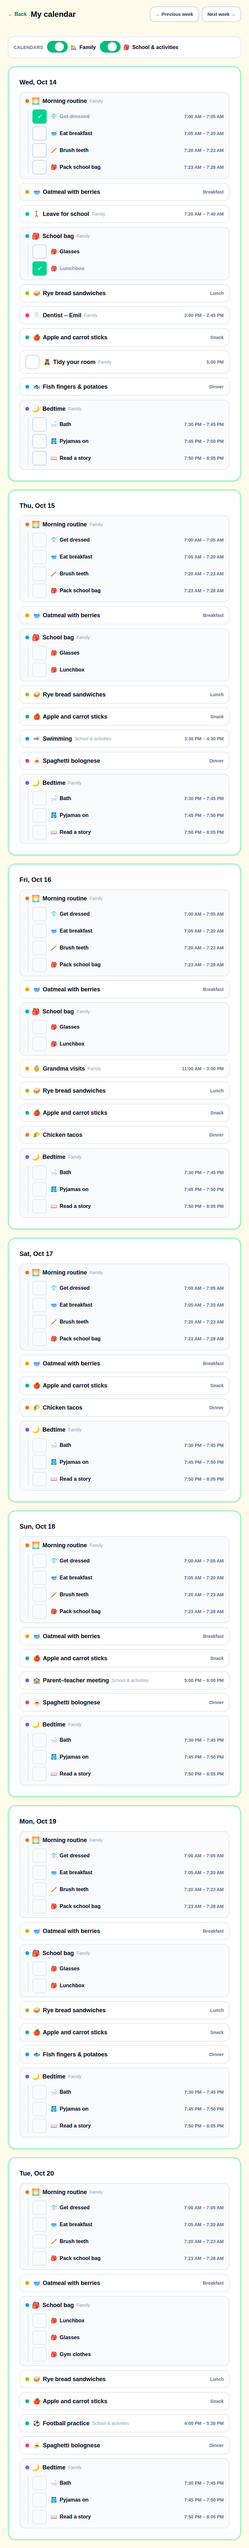
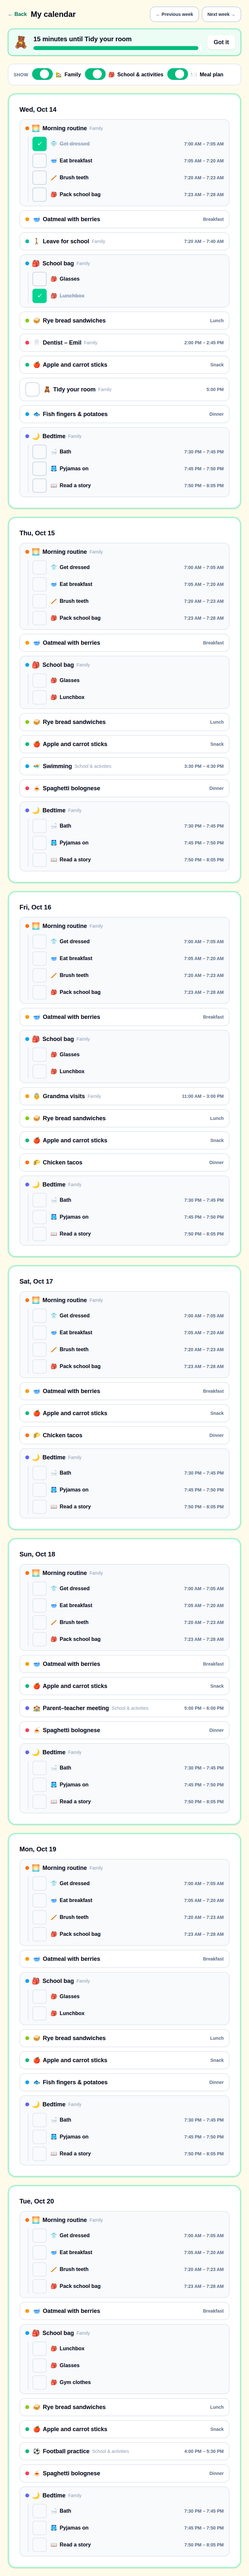
feat(child-calendar): add a switch to show or hide the meal plan
The filter bar on /child/calendar gets a "Meal plan" switch, on by default,
whenever meal plans are enabled. The choice is remembered per device in
localStorage. The bar's title becomes "Show" since it now also appears with
a single calendar.

diff --git a/src/frontend/buddy/src/app/features/child/calendar/child-calendar.spec.ts b/src/frontend/buddy/src/app/features/child/calendar/child-calendar.spec.ts
@@ -1,7 +1,7 @@
 import { signal } from '@angular/core';
 import { TestBed } from '@angular/core/testing';
 import { provideRouter } from '@angular/router';
-import { describe, expect, it, vi } from 'vitest';
+import { afterEach, beforeEach, describe, expect, it, vi } from 'vitest';
 
 import {
   CalendarOccurrence,
@@ -17,6 +17,10 @@ import { disableFeatures } from '../../../../testing/features-fixture';
 
 describe('ChildCalendar', () => {
   const today = todayIsoDate();
+
+  // The meal-plan switch is remembered in localStorage; start every test from the default.
+  beforeEach(() => localStorage.clear());
+  afterEach(() => localStorage.clear());
 
   const currentUser: CurrentUser = {
     showVisualTimers: true,
@@ -476,12 +480,117 @@ describe('ChildCalendar', () => {
     expect(compiled.textContent).toContain('All day');
   });
 
-  it('shows no filter toggles when only one calendar is accessible', async () => {
+  it('shows only the meal-plan switch when one calendar is accessible', async () => {
     const { fixture } = await setup();
     await settle(fixture);
-    expect(
-      (fixture.nativeElement as HTMLElement).querySelector('button[role="switch"]'),
-    ).toBeFalsy();
+
+    const labels = Array.from(
+      (fixture.nativeElement as HTMLElement).querySelectorAll('button[role="switch"]'),
+    ).map((b) => b.getAttribute('aria-label'));
+    expect(labels).toEqual(['Meal plan']);
+  });
+
+  it('shows no filter when one calendar is accessible and meal plans are turned off', async () => {
+    disableFeatures('mealplans');
+    const { fixture } = await setup();
+    await settle(fixture);
+
+    const compiled = fixture.nativeElement as HTMLElement;
+    expect(compiled.querySelector('button[role="switch"]')).toBeFalsy();
+    expect(compiled.textContent).not.toContain('Show');
+  });
+
+  it('lists the meal-plan switch after the calendar switches, under the "Show" title', async () => {
+    const { fixture } = await setup({
+      calendars: {
+        listMyCalendars: vi.fn(async () => [
+          calendarSummary(),
+          calendarSummary({ id: 'cal-2', name: 'School' }),
+        ]),
+      },
+    });
+    await settle(fixture);
+
+    const compiled = fixture.nativeElement as HTMLElement;
+    const labels = Array.from(compiled.querySelectorAll('button[role="switch"]')).map((b) =>
+      b.getAttribute('aria-label'),
+    );
+    expect(labels).toEqual(['Home', 'School', 'Meal plan']);
+    expect(compiled.textContent).toContain('Show');
+  });
+
+  it('shows meals by default, with the meal-plan switch on', async () => {
+    const { fixture } = await setup({
+      mealplans: { listMealPlan: vi.fn(async () => [mealEntry()]) },
+    });
+    await settle(fixture);
+
+    const compiled = fixture.nativeElement as HTMLElement;
+    expect(findButtonByAriaLabel(compiled, 'Meal plan')?.getAttribute('aria-checked')).toBe('true');
+    expect(compiled.textContent).toContain('Pancakes');
+  });
+
+  it('hides meals but keeps events when the meal-plan switch is turned off, and remembers it', async () => {
+    const { fixture } = await setup({
+      calendars: { listOccurrencesInRange: vi.fn(async () => [occurrence()]) },
+      mealplans: { listMealPlan: vi.fn(async () => [mealEntry()]) },
+    });
+    await settle(fixture);
+
+    const compiled = fixture.nativeElement as HTMLElement;
+    findButtonByAriaLabel(compiled, 'Meal plan')?.click();
+    await settle(fixture);
+
+    expect(compiled.textContent).not.toContain('Pancakes');
+    expect(compiled.textContent).toContain('Dentist');
+    expect(findButtonByAriaLabel(compiled, 'Meal plan')?.getAttribute('aria-checked')).toBe(
+      'false',
+    );
+    expect(localStorage.getItem('buddy_child_calendar_show_meals')).toBe('false');
+  });
+
+  it('shows the empty state when the only entries are hidden meals', async () => {
+    const { fixture } = await setup({
+      mealplans: { listMealPlan: vi.fn(async () => [mealEntry()]) },
+    });
+    await settle(fixture);
+
+    const compiled = fixture.nativeElement as HTMLElement;
+    findButtonByAriaLabel(compiled, 'Meal plan')?.click();
+    await settle(fixture);
+
+    expect(compiled.textContent).toContain('Nothing planned this week');
+  });
+
+  it('shows hidden meals again without reloading when the switch is turned back on', async () => {
+    const { fixture, mealplans } = await setup({
+      mealplans: { listMealPlan: vi.fn(async () => [mealEntry()]) },
+    });
+    await settle(fixture);
+
+    const compiled = fixture.nativeElement as HTMLElement;
+    findButtonByAriaLabel(compiled, 'Meal plan')?.click();
+    await settle(fixture);
+    findButtonByAriaLabel(compiled, 'Meal plan')?.click();
+    await settle(fixture);
+
+    expect(compiled.textContent).toContain('Pancakes');
+    expect(mealplans.listMealPlan).toHaveBeenCalledTimes(1);
+    expect(localStorage.getItem('buddy_child_calendar_show_meals')).toBe('true');
+  });
+
+  it('starts with meals hidden when they were hidden last time on this device', async () => {
+    localStorage.setItem('buddy_child_calendar_show_meals', 'false');
+    const { fixture } = await setup({
+      mealplans: { listMealPlan: vi.fn(async () => [mealEntry()]) },
+    });
+    await settle(fixture);
+
+    const compiled = fixture.nativeElement as HTMLElement;
+    expect(findButtonByAriaLabel(compiled, 'Meal plan')?.getAttribute('aria-checked')).toBe(
+      'false',
+    );
+    expect(compiled.textContent).not.toContain('Pancakes');
   });
 
   it('shows a per-calendar filter when more than one calendar is accessible', async () => {

diff --git a/src/frontend/buddy/src/app/features/child/calendar/child-calendar.html b/src/frontend/buddy/src/app/features/child/calendar/child-calendar.html
@@ -37,23 +37,37 @@
     }
   }
 
-  @if (myCalendars().length > 1) {
+  @if (myCalendars().length > 1 || mealplansEnabled()) {
     <div
       class="flex flex-wrap items-center gap-3 rounded-2xl border-2 border-slate-200 dark:border-slate-800 bg-white dark:bg-slate-900 px-4 py-3"
     >
       <span class="text-sm font-bold uppercase tracking-wide text-slate-500 dark:text-slate-400">{{
         'child.calendar.filterTitle' | translate
       }}</span>
-      @for (calendar of myCalendars(); track calendar.id) {
+      @if (myCalendars().length > 1) {
+        @for (calendar of myCalendars(); track calendar.id) {
+          <div class="flex items-center gap-2 text-base font-semibold">
+            <app-toggle
+              size="lg"
+              [checked]="!isCalendarHidden(calendar.id)"
+              [ariaLabel]="calendar.name"
+              (checkedChange)="toggleCalendarVisibility(calendar.id)"
+            />
+            <span aria-hidden="true">{{ calendar.icon }}</span>
+            {{ calendar.name }}
+          </div>
+        }
+      }
+      @if (mealplansEnabled()) {
         <div class="flex items-center gap-2 text-base font-semibold">
           <app-toggle
             size="lg"
-            [checked]="!isCalendarHidden(calendar.id)"
-            [ariaLabel]="calendar.name"
-            (checkedChange)="toggleCalendarVisibility(calendar.id)"
+            [checked]="showMeals()"
+            [ariaLabel]="'child.calendar.showMeals' | translate"
+            (checkedChange)="setShowMeals($event)"
           />
-          <span aria-hidden="true">{{ calendar.icon }}</span>
-          {{ calendar.name }}
+          <span aria-hidden="true">🍽</span>
+          {{ 'child.calendar.showMeals' | translate }}
         </div>
       }
     </div>

diff --git a/src/frontend/buddy/src/app/features/child/calendar/child-calendar.ts b/src/frontend/buddy/src/app/features/child/calendar/child-calendar.ts
@@ -31,6 +31,7 @@ import { UsersService } from '../../../core/users.service';
 import { createAction } from '../../../shared/action-state/action-state';
 import { Toggle } from '../../../shared/toggle/toggle';
 import { ChildPage } from '../child-page/child-page';
+import { readShowMeals, writeShowMeals } from './meal-visibility-storage';
 
 const TASK_KIND: CalendarItemKind = 'Task';
 const DAYS_AHEAD = 7;
@@ -154,13 +155,15 @@ export class ChildCalendar {
     computation: (next, previous) => next ?? previous?.value ?? [],
   });
   protected readonly hiddenCalendarIds = signal<Set<string>>(new Set());
+  protected readonly showMeals = signal(readShowMeals());
   protected readonly savingTask = createAction<string>();
 
   private readonly occurrences = computed(() =>
     this.week.hasValue() ? this.week.value().occurrences : [],
   );
+  // Hidden meals are still loaded, so switching them back on shows them without a reload.
   private readonly mealEntries = computed(() =>
-    this.week.hasValue() ? this.week.value().mealEntries : [],
+    this.showMeals() && this.week.hasValue() ? this.week.value().mealEntries : [],
   );
 
   protected readonly occurrencesByDate = computed(() => {
@@ -302,6 +305,15 @@ export class ChildCalendar {
 
       return next;
     });
+  }
+
+  protected mealplansEnabled(): boolean {
+    return this.features.enabled('mealplans');
+  }
+
+  protected setShowMeals(show: boolean): void {
+    this.showMeals.set(show);
+    writeShowMeals(show);
   }
 
   protected async toggleTask(occurrence: CalendarOccurrence): Promise<void> {

diff --git a/src/frontend/buddy/src/app/features/child/calendar/meal-visibility-storage.spec.ts b/src/frontend/buddy/src/app/features/child/calendar/meal-visibility-storage.spec.ts
@@ -1,0 +1,40 @@
+import { afterEach, beforeEach, describe, expect, it, vi } from 'vitest';
+
+import { readShowMeals, writeShowMeals } from './meal-visibility-storage';
+
+describe('meal-visibility-storage', () => {
+  beforeEach(() => localStorage.clear());
+  afterEach(() => {
+    localStorage.clear();
+    vi.restoreAllMocks();
+  });
+
+  it('shows meals when nothing is stored', () => {
+    expect(readShowMeals()).toBe(true);
+  });
+
+  it('round-trips a hidden and a shown meal plan', () => {
+    writeShowMeals(false);
+    expect(localStorage.getItem('buddy_child_calendar_show_meals')).toBe('false');
+    expect(readShowMeals()).toBe(false);
+
+    writeShowMeals(true);
+    expect(readShowMeals()).toBe(true);
+  });
+
+  it('shows meals when storage cannot be read', () => {
+    vi.spyOn(Storage.prototype, 'getItem').mockImplementation(() => {
+      throw new Error('blocked');
+    });
+
+    expect(readShowMeals()).toBe(true);
+  });
+
+  it('ignores a storage failure when writing', () => {
+    vi.spyOn(Storage.prototype, 'setItem').mockImplementation(() => {
+      throw new Error('blocked');
+    });
+
+    expect(() => writeShowMeals(false)).not.toThrow();
+  });
+});

diff --git a/src/frontend/buddy/src/app/features/child/calendar/meal-visibility-storage.ts b/src/frontend/buddy/src/app/features/child/calendar/meal-visibility-storage.ts
@@ -1,0 +1,21 @@
+// Whether the child's calendar shows the meal plan on this device -- a view preference, not
+// configuration, so it isn't synced (same lightweight approach as theme-storage.ts). Storage can
+// be unavailable (private mode, blocked site data), so every access is guarded and failure just
+// means the default: meals shown.
+const KEY = 'buddy_child_calendar_show_meals';
+
+export function readShowMeals(): boolean {
+  try {
+    return localStorage.getItem(KEY) !== 'false';
+  } catch {
+    return true;
+  }
+}
+
+export function writeShowMeals(show: boolean): void {
+  try {
+    localStorage.setItem(KEY, String(show));
+  } catch {
+    // Not persisted; the calendar just starts with meals shown next time.
+  }
+}

diff --git a/src/frontend/buddy/src/app/core/i18n/translations/da/child.ts b/src/frontend/buddy/src/app/core/i18n/translations/da/child.ts
@@ -138,7 +138,8 @@ export const child = {
     loadError: 'Der gik noget galt med at indlæse din kalender. Prøv igen om lidt.',
     taskUpdateError: 'Der gik noget galt med at opdatere opgaven. Prøv igen om lidt.',
     emptyTitle: 'Intet planlagt denne uge',
-    filterTitle: 'Kalendere',
+    filterTitle: 'Vis',
+    showMeals: 'Madplan',
     allDay: 'Hele dagen',
     tasks: {
       markDone: 'Marker som klar',

diff --git a/src/frontend/buddy/src/app/core/i18n/translations/en/child.ts b/src/frontend/buddy/src/app/core/i18n/translations/en/child.ts
@@ -138,7 +138,8 @@ export const child = {
     loadError: 'Something went wrong loading your calendar. Try again in a bit.',
     taskUpdateError: 'Something went wrong updating that task. Try again in a bit.',
     emptyTitle: 'Nothing planned this week',
-    filterTitle: 'Calendars',
+    filterTitle: 'Show',
+    showMeals: 'Meal plan',
     allDay: 'All day',
     tasks: {
       markDone: 'Mark done',

diff --git a/docs/frontend/analysis/child-calendar-mealplan-integration.md b/docs/frontend/analysis/child-calendar-mealplan-integration.md
@@ -141,6 +141,17 @@ cases for:
 - Meal rows show the meal's icon/name/slot label and are not clickable (no
   completion affordance).
 
+## Follow-up: show/hide toggle (2026-10-14)
+
+The calendar's filter bar (titled "Show" / "Vis") has a "Meal plan" switch,
+on by default, whenever the `mealplans` feature is enabled. The bar now
+appears even with a single calendar. Turning the switch off drops meals from
+the agenda and from the empty-state check. The meals are still loaded, so
+switching back needs no reload. The choice is a per-device view preference
+in `localStorage` (`buddy_child_calendar_show_meals`, see
+`meal-visibility-storage.ts`), not synced to the profile, like the theme and
+the last print template.
+
 ## Explicitly out of scope for this phase
 
 - Rating a meal from the calendar view — stays on `/child/mealplan`.

diff --git a/TODO.md b/TODO.md
@@ -15,7 +15,9 @@
 
 ### Toggle the meal plan in calendar views (2026-10-14)
 
-- [ ] Add a toggle to show or hide the meal plan in the calendar views (default: on).
+- [x] Add a toggle to show or hide the meal plan in the calendar views (default: on). It's a
+      "Meal plan" switch in the child calendar's filter bar, remembered per device. Only the
+      child calendar shows meals (2026-10-14).
 
 ### Tools for families with ADHD and autism (2026-10-11)
 
